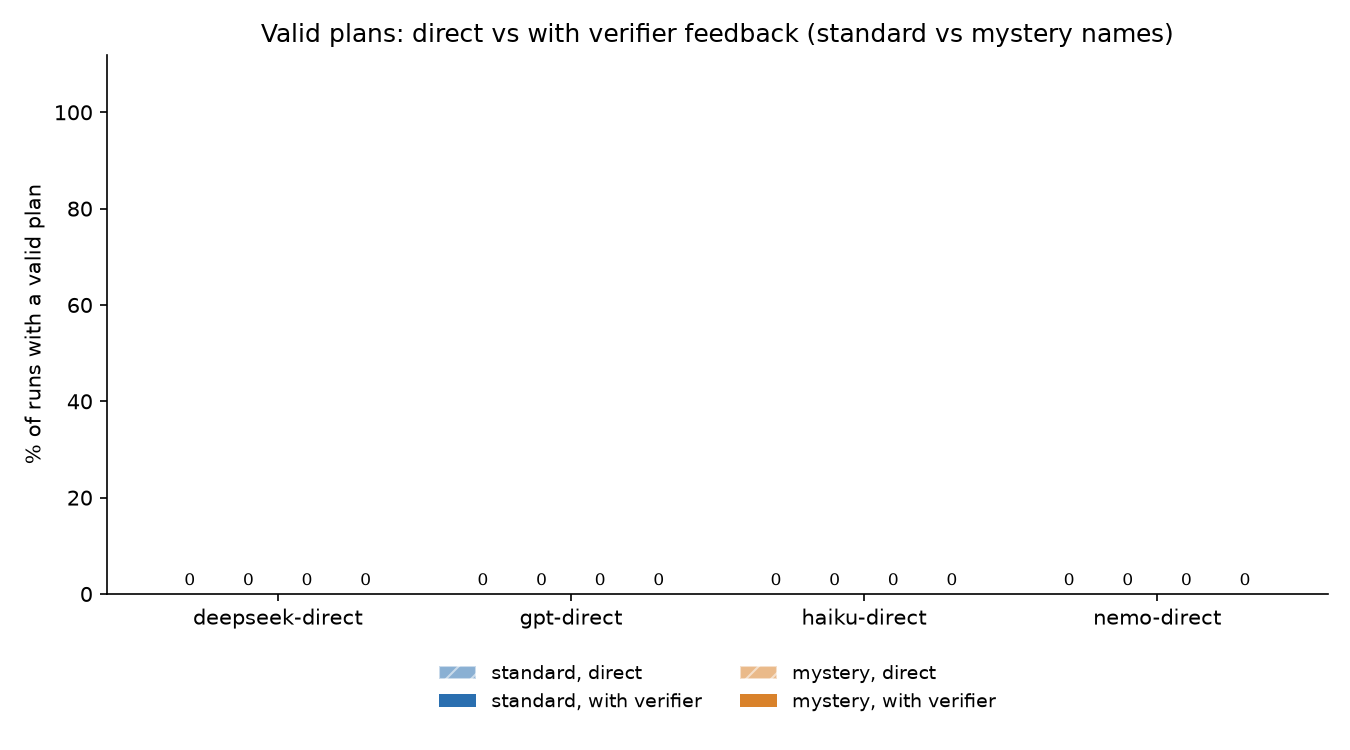
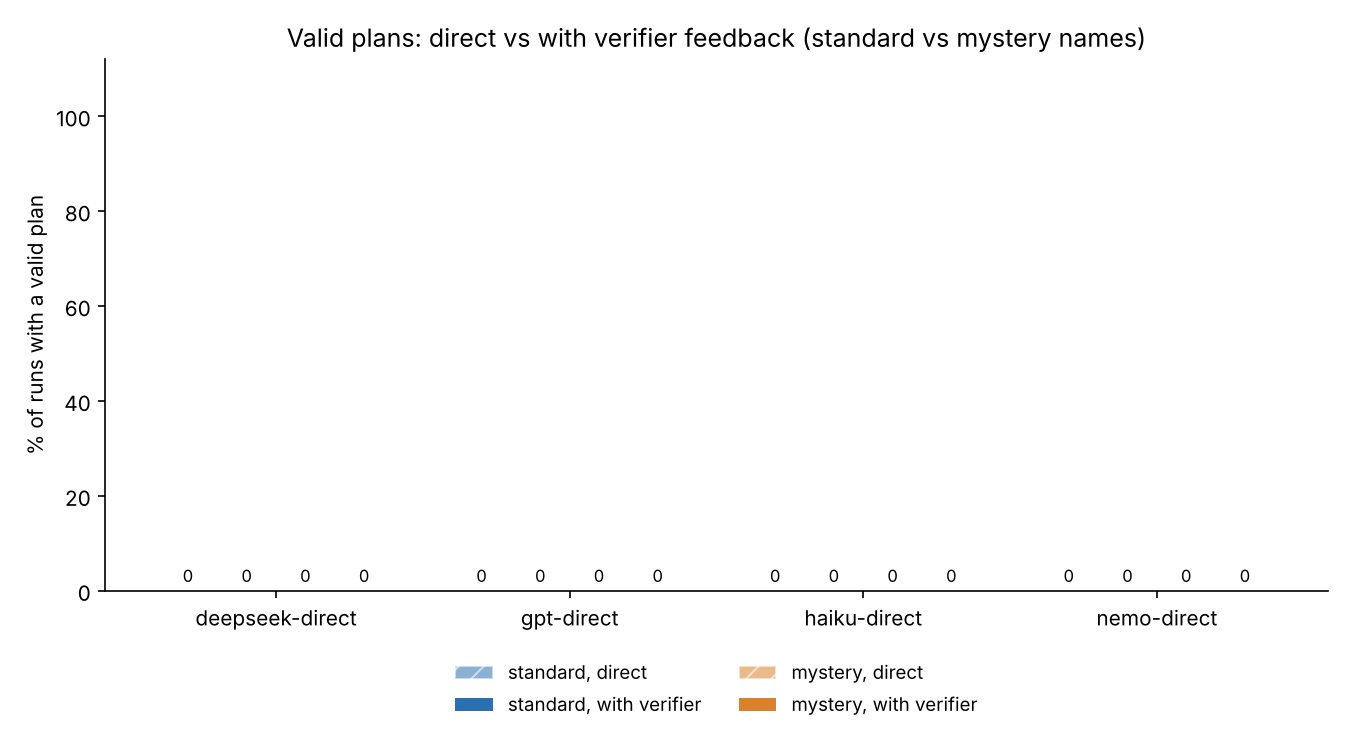
Analysis: count replies without any plan separately (no_plan); add results audit script
Claude-Session: https://claude.ai/code/session_01SkUvuhSctYQJqzETnV5GB9

diff --git a/tools/audit_results.py b/tools/audit_results.py
@@ -1,0 +1,67 @@
+import json,sys,collections,re
+sys.path.insert(0,'.')
+from pathlib import Path
+from pyperplan.pddl.parser import Parser
+from pyperplan import grounding
+from src.validate import validate_text, default_mapping_for, parse_plan
+from src.pddl_utils import domain_for
+from src import run_llm as R
+C=collections.Counter; out=collections.defaultdict(C)
+tasks={}
+def task(variant,prob):
+    k=(variant,prob)
+    if k not in tasks:
+        p=Parser(str(domain_for(variant)),str(Path('problems',variant,prob+'.pddl'))); d=p.parse_domain(); pr=p.parse_problem(d)
+        t=grounding.ground(pr, remove_statics_from_initial_state=False, remove_irrelevant_operators=False)
+        tasks[k]=(t,{o.name:o for o in t.operators})
+    return tasks[k]
+def indep(variant,prob,text):
+    """independent check with pyperplan's own grounded operators: returns (valid, first_bad_step)"""
+    t,ops=task(variant,prob); s=t.initial_state; steps=parse_plan(text)
+    if not steps: return False,0
+    for i,st in enumerate(steps,1):
+        op=ops.get('('+st['raw']+')')
+        if op is None or not op.applicable(s): return False,i
+        s=op.apply(s)
+    return t.goal_reached(s), None
+roots=[('paid',Path('results/raw'))]+[(f'pilot/{d.name}',d/'raw') for d in sorted(Path('pilot').glob('round*'))]
+disagree=[]; reps=collections.defaultdict(dict)
+for tag,root in roots:
+    for f in sorted(root.rglob('rep*_round*.json')):
+        r=json.loads(f.read_text()); m=r['model_label']; v=r['variant']
+        pf=Path('problems',v,r['problem']+'.pddl')
+        if tag.startswith('pilot'):
+            # pilot rounds 1-3 used older problem/domain files: only rounds 4-5 match the current files
+            if tag not in ('pilot/round4','pilot/round5'): continue
+        dom=domain_for(v); res=validate_text(dom,pf,r['response_text'],default_mapping_for(dom))
+        iv,ibad=indep(v,r['problem'],r['response_text'])
+        out[(tag,m)]['replies']+=1
+        out[(tag,m)]['valid']+=res['valid']
+        if iv!=res['valid'] or (not res['valid'] and res['first_error_step'] and ibad!=res['first_error_step']):
+            disagree.append((str(f),res['valid'],res['first_error_step'],iv,ibad))
+        if tag!='paid': continue
+        txt=r['response_text']; n=len(parse_plan(txt)); ct=r['usage'].get('completion_tokens') or 0
+        if n==0: out[(tag,m)]['no_plan']+=1
+        if ct>=3950: out[(tag,m)]['hit_length_cap']+=1
+        if ct > len(txt)/2.2+60: out[(tag,m)]['tokens_much_more_than_text(hidden thinking?)']+=1
+        if '```plan' not in txt and n>0: out[(tag,m)]['plan_without_fence']+=1
+        if re.sub(r'```plan.*?```','',txt,flags=re.S).strip() and n>0 and '```plan' in txt and txt.count('```')>=2: out[(tag,m)]['extra_text_around_plan']+=1
+        if r['returned_model'] and r['model_id'] not in r['returned_model'] and r['returned_model'] not in r['model_id']: out[(tag,m)]['returned_model:'+str(r['returned_model'])]+=1
+        out[(tag,m)]['cost_source:'+str(r['cost_source'])]+=1
+        if res['error_category']=='syntax' and n>0: out[(tag,m)]['syntax:'+re.sub(r"'[^']*'",'X',res['error_message'].split('): ')[-1])[:38]]+=1
+        lines=[s['raw'] for s in parse_plan(txt)]
+        if n>8 and len(set(lines))<0.5*n: out[(tag,m)]['repetitive_plan(loop)']+=1
+        reps[(m,v,r['problem'],r['round'])][r['rep']]=txt
+        # conversation integrity: round k has 2k+1 messages, alternating, first = direct prompt
+        msgs=r['messages']; k=r['round']
+        if len(msgs)!=2*k+1 or [x['role'] for x in msgs]!=(['user','assistant']*k+['user']): out[(tag,m)]['BAD_conversation_shape']+=1
+        if k>0:
+            prev=json.loads((f.parent/f"rep{r['rep']}_round{k-1}.json").read_text())
+            pres=validate_text(dom,pf,prev['response_text'],default_mapping_for(dom))
+            if msgs[-2]['content']!=prev['response_text'] or (pres['error_message'] or '') not in msgs[-1]['content']: out[(tag,m)]['BAD_feedback_mismatch']+=1
+same=C()
+for (m,v,p,rnd),d in reps.items():
+    if rnd==0 and len(d)==2: same[m+(' identical' if d[0]==d[1] else ' different')]+=1
+for k in sorted(out): print(k, dict(out[k]))
+print('repeat 1 vs 2 first answers:',dict(same))
+print('DISAGREEMENTS with independent checker:',len(disagree)); [print(' ',d) for d in disagree[:8]]

diff --git a/src/analyze.py b/src/analyze.py
@@ -25,7 +25,7 @@ from pathlib import Path
 from .pddl_utils import ROOT, domain_for
 from .validate import validate_text, default_mapping_for
 
-CATEGORIES = ["syntax", "terrain", "battery", "communication", "equipment", "state", "goal_not_reached"]
+CATEGORIES = ["no_plan", "syntax", "terrain", "battery", "communication", "equipment", "state", "goal_not_reached"]
 SIZES = ["small", "medium", "large"]
 _FNAME = re.compile(r"rep(\d+)_round(\d+)\.json$")
 
@@ -56,6 +56,10 @@ def load_episodes(results_dir, root=ROOT, max_rounds=3):
             if r > max_rounds:
                 continue
             results[r] = validate_text(domain, problem_file, rounds[r]["response_text"], mapping)
+            if results[r]["plan_length"] == 0:
+                # the reply contains no plan at all (the model declined, or wrote only prose):
+                # counted apart from real syntax errors
+                results[r]["error_category"] = "no_plan"
         solved = next((r for r in sorted(results) if results[r]["valid"]), None)
         finished = solved is not None or len(results) == max_rounds + 1
         episodes.append(dict(

diff --git a/results/tables.md b/results/tables.md
@@ -62,20 +62,20 @@ Episodes analysed: 144. Max feedback rounds: 3.
 
 ## T2. First-error category at round 0 (counts among invalid direct plans)
 
-| model | variant | n_invalid_round0 | syntax | terrain | battery | communication | equipment | state | goal_not_reached |
-|---|---|---|---|---|---|---|---|---|---|
-| deepseek-direct | mystery | 12 | 0 | 0 | 2 | 1 | 0 | 9 | 0 |
-| deepseek-direct | rovers | 12 | 1 | 2 | 0 | 1 | 1 | 7 | 0 |
-| deepseek-direct | standard | 12 | 1 | 0 | 6 | 2 | 0 | 3 | 0 |
-| gpt-direct | mystery | 12 | 0 | 0 | 5 | 0 | 0 | 7 | 0 |
-| gpt-direct | rovers | 12 | 0 | 1 | 0 | 3 | 1 | 7 | 0 |
-| gpt-direct | standard | 12 | 0 | 1 | 6 | 3 | 0 | 2 | 0 |
-| haiku-direct | mystery | 12 | 4 | 1 | 4 | 1 | 0 | 1 | 1 |
-| haiku-direct | rovers | 12 | 5 | 2 | 0 | 1 | 1 | 3 | 0 |
-| haiku-direct | standard | 12 | 0 | 1 | 2 | 0 | 2 | 7 | 0 |
-| nemo-direct | mystery | 12 | 8 | 1 | 3 | 0 | 0 | 0 | 0 |
-| nemo-direct | rovers | 12 | 5 | 6 | 0 | 0 | 0 | 1 | 0 |
-| nemo-direct | standard | 12 | 3 | 6 | 2 | 0 | 0 | 1 | 0 |
+| model | variant | n_invalid_round0 | no_plan | syntax | terrain | battery | communication | equipment | state | goal_not_reached |
+|---|---|---|---|---|---|---|---|---|---|---|
+| deepseek-direct | mystery | 12 | 0 | 0 | 0 | 2 | 1 | 0 | 9 | 0 |
+| deepseek-direct | rovers | 12 | 0 | 1 | 2 | 0 | 1 | 1 | 7 | 0 |
+| deepseek-direct | standard | 12 | 0 | 1 | 0 | 6 | 2 | 0 | 3 | 0 |
+| gpt-direct | mystery | 12 | 0 | 0 | 0 | 5 | 0 | 0 | 7 | 0 |
+| gpt-direct | rovers | 12 | 0 | 0 | 1 | 0 | 3 | 1 | 7 | 0 |
+| gpt-direct | standard | 12 | 0 | 0 | 1 | 6 | 3 | 0 | 2 | 0 |
+| haiku-direct | mystery | 12 | 4 | 0 | 1 | 4 | 1 | 0 | 1 | 1 |
+| haiku-direct | rovers | 12 | 5 | 0 | 2 | 0 | 1 | 1 | 3 | 0 |
+| haiku-direct | standard | 12 | 0 | 0 | 1 | 2 | 0 | 2 | 7 | 0 |
+| nemo-direct | mystery | 12 | 0 | 8 | 1 | 3 | 0 | 0 | 0 | 0 |
+| nemo-direct | rovers | 12 | 0 | 5 | 6 | 0 | 0 | 0 | 1 | 0 |
+| nemo-direct | standard | 12 | 0 | 3 | 6 | 2 | 0 | 0 | 1 | 0 |
 
 ## Baseline (pyperplan reference plans)
 
